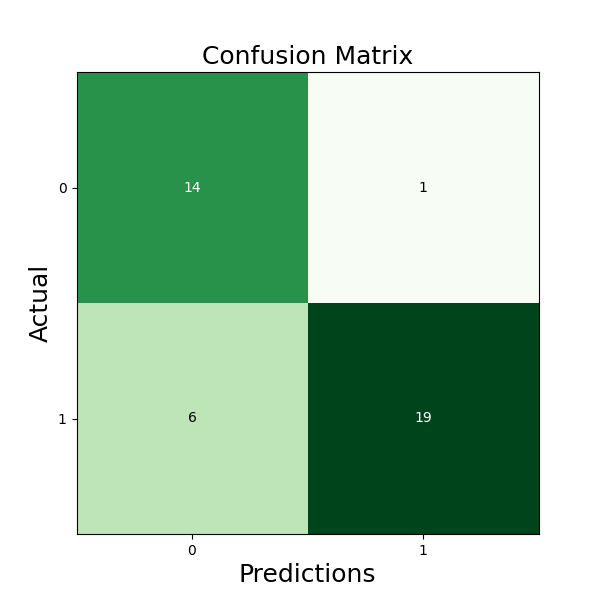
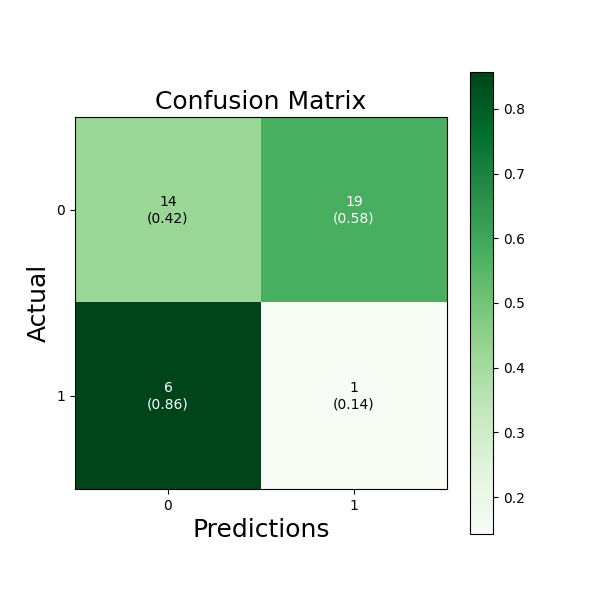
Modified error calculation in training

diff --git a/slp/gui/utils.py b/slp/gui/utils.py
@@ -7,9 +7,14 @@ from mlxtend.plotting import plot_confusion_matrix
 def generate_conf_mat(tp, tn, fp, fn):
     conf_matrix = np.array([[tp, fp], [fn, tn]])
 
-    fig, ax = plot_confusion_matrix(conf_mat=conf_matrix, figsize=(6, 6), cmap=plt.cm.Greens)
+    fig, ax = plot_confusion_matrix(conf_mat=conf_matrix,
+                                    figsize=(6, 6),
+                                    cmap=plt.cm.Greens,
+                                    show_absolute=True,
+                                    show_normed=True,
+                                    colorbar=True)
+
     plt.xlabel('Predictions', fontsize=18)
     plt.ylabel('Actual', fontsize=18)
     plt.title('Confusion Matrix', fontsize=18)
     plt.savefig('conf_mat.png')
-

diff --git a/slp/task2/adaline.py b/slp/task2/adaline.py
@@ -68,7 +68,7 @@ def run(class1, class2, x1, x2, ep, bs, rate, mse):
         err = 0
         for count in range(0, len(training_df)):
             err += calc_err(training_df[x1][count], training_df[x2][count], training_df['species'][count], w0, w1, w2)
-        err /= len(training_df)
+        err = (2 * len(training_df)) / err
         if err <= mse:
             break
 

diff --git a/slp/gui/gui_output.py b/slp/gui/gui_output.py
@@ -6,6 +6,13 @@ from gui.utils import generate_conf_mat
 
 
 def show_output(tp, tn, fp, fn, acc):
+
+    # Debug
+    print(tp)
+    print(tn)
+    print(fp)
+    print(fn)
+
     # Creating tkinter window
     output_window = tk.Tk()
     output_window.title('Output')
